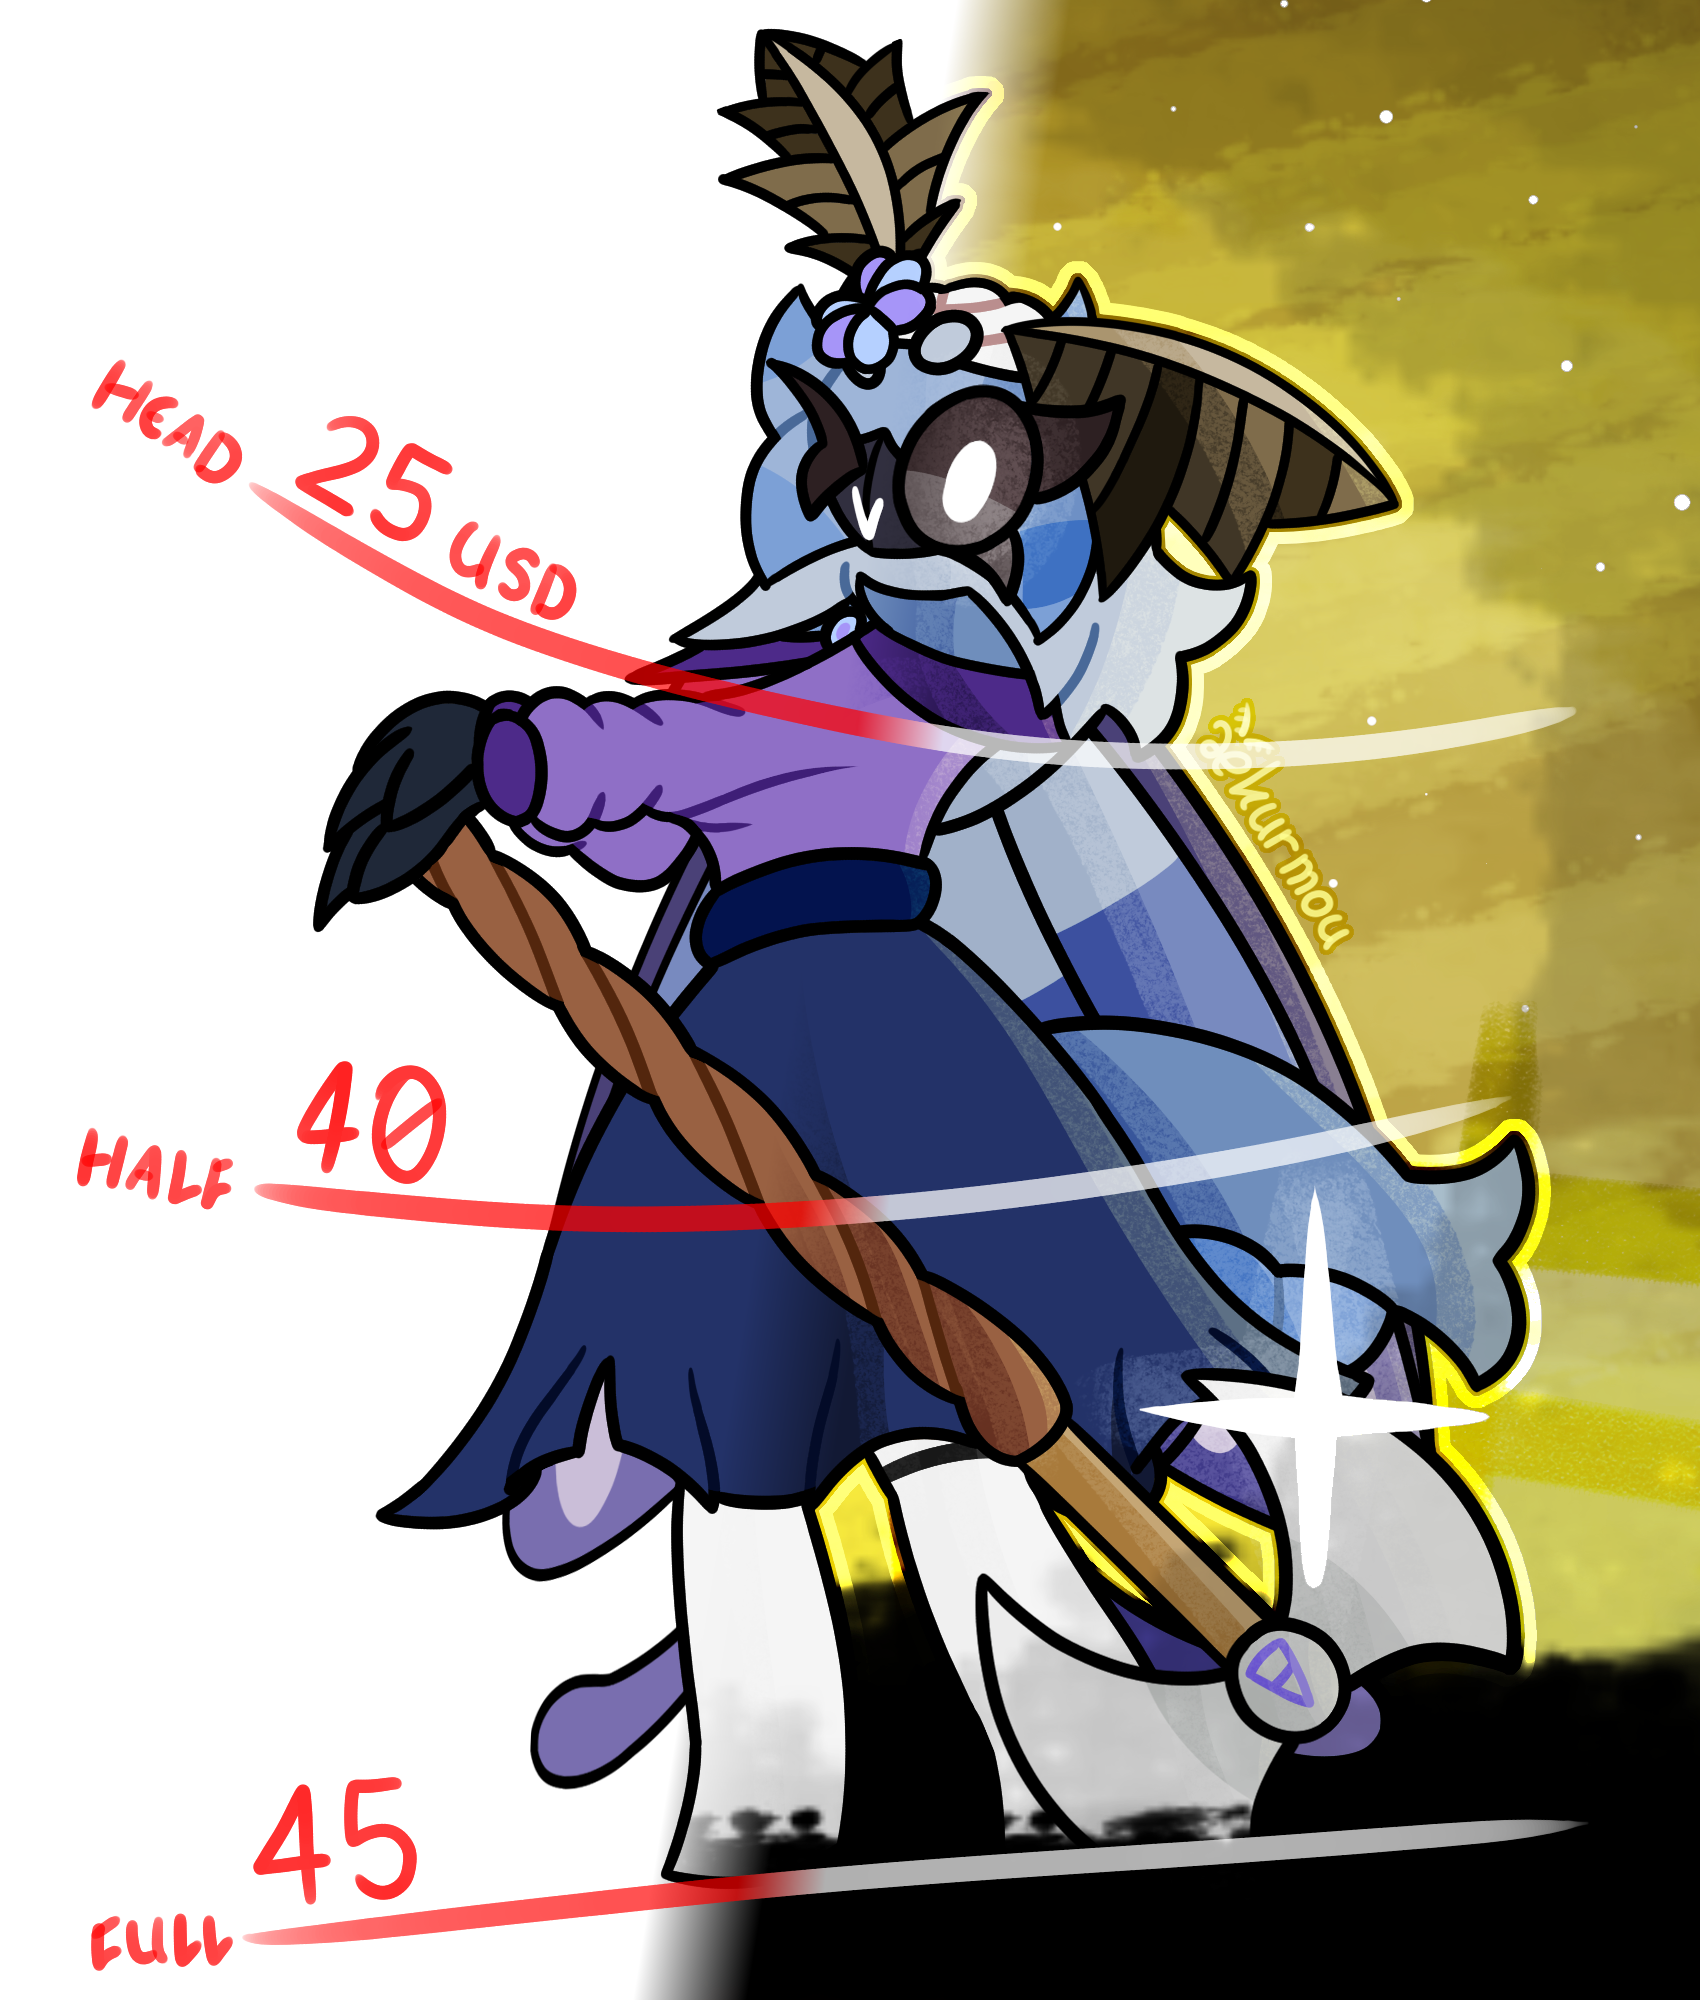
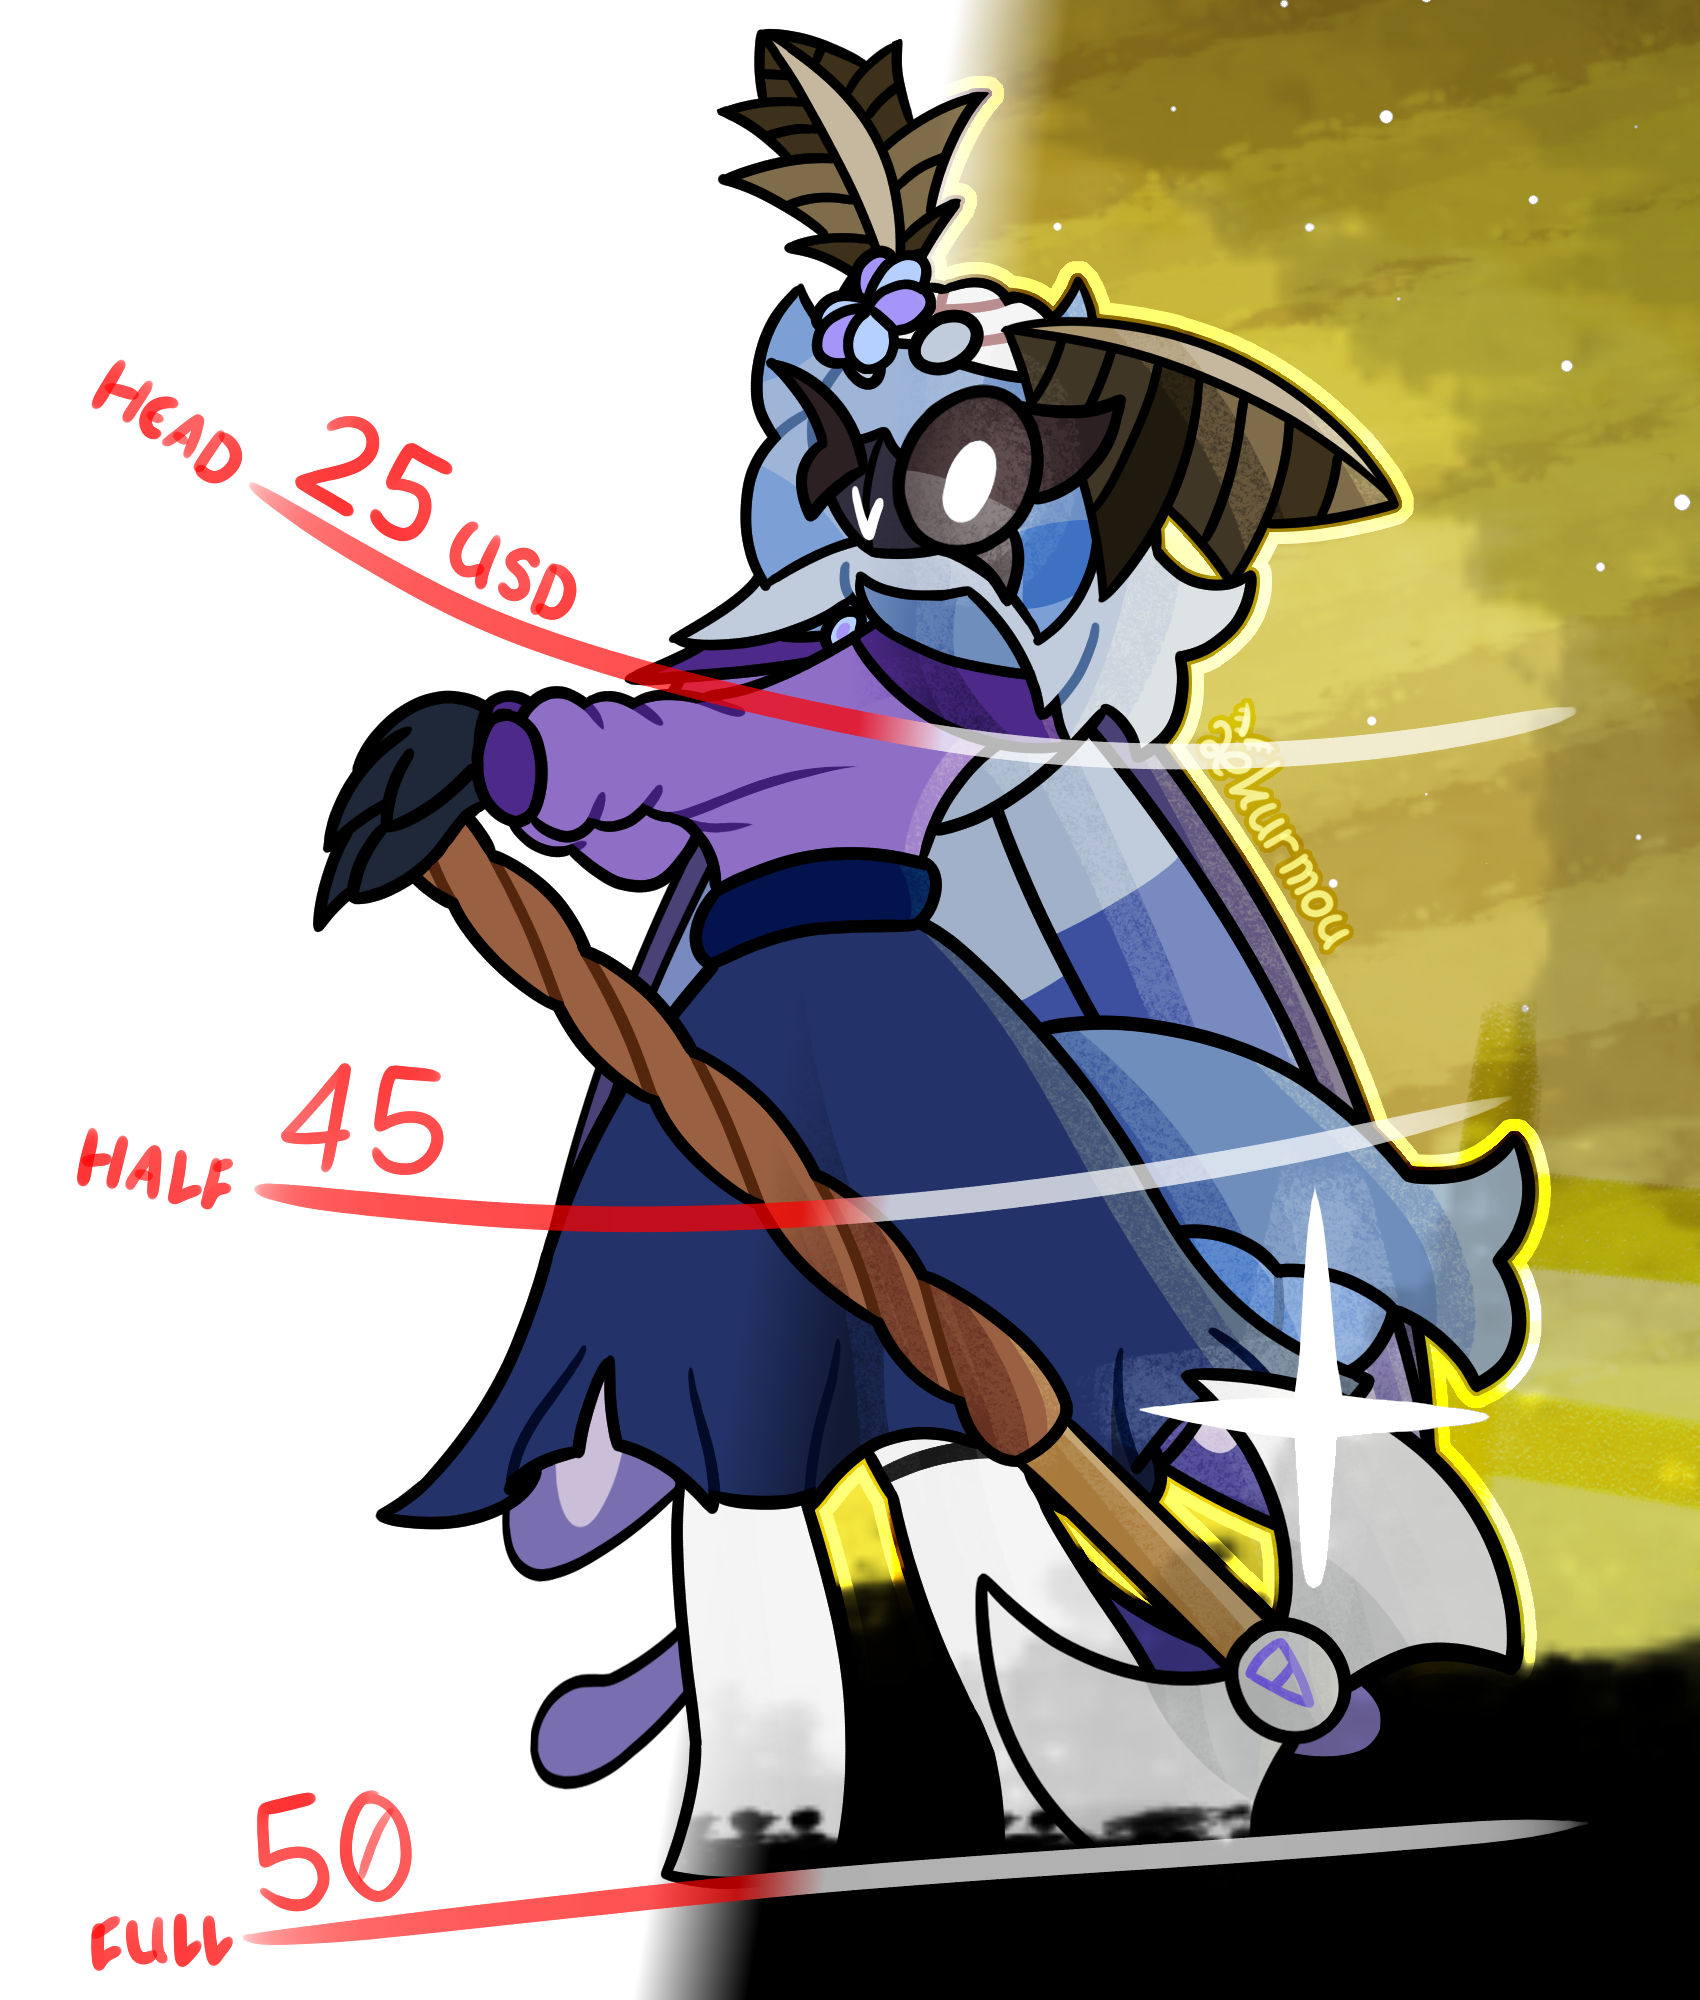
Add files via upload

Changed region(s): [[0.1247, 0.868, 0.2494, 0.961], [0.1559, 0.527, 0.2806, 0.589]]

diff --git a/artcomm/index.html b/artcomm/index.html
@@ -20,7 +20,7 @@
 			<a href="index.html">art comm</a>
 		</nav>
 		<main>
-			<h1>Art Commission <span style="font-family: serif">&kappa;</span></h1>			
+			<h1>Art Commission <span style="font-family: serif">&lambda;</span></h1>			
 			<img src="commshee_visual.png" width="600px">
 			<br>
 			<table class="prices">
@@ -32,11 +32,11 @@
 					</tr>
 					<tr>
 						<th>HALF</th>
-						<td id="price_half">40</td>
+						<td id="price_half">45</td>
 					</tr>
 					<tr>
 						<th>FULL</th>
-						<td id="price_full">45</td>
+						<td id="price_full">50</td>
 					</tr>
 				</tbody>
 			</table>
@@ -60,8 +60,8 @@
 						<td id="modifier_extrachar">+40%</td>
 					</tr>
 					<tr>
-						<td>Pride Month Discount<sup>[4]</sup></td>
-						<td id="modifier_bonusdiscount">-10%</td>
+						<td>Reference Angle<sup>[4]</sup></td>
+						<td id="modifier_refang">+25%</td>
 					</tr>
 				</tbody>
 			</table>
@@ -69,7 +69,7 @@
 				<li><sup>[1]</sup>Simple backgrounds (e.g. gradients and shapes) do not count towards the modifier. However, it is considered complex and counts towards the modifier if it features a significant amount of objects such as vegetation, buildings, and room objects, and the subject doesn't entirely encapsulate the canvas.</li>
 				<li><sup>[2]</sup>A pose is considered 'complex' if a subject's head is laterally further from or closer to the camera than pelvis, or a subject's limbs are significantly laterally distant from the body.</li>
 				<li><sup>[3]</sup>Maximum limit of 3 characters. My own characters count as a half, but they still count as a whole for the limit.</li>
-				<li><sup>[4]</sup>Eligible if the work primarily showcases the character's pride. <b>Complex backgrounds do not count</b>.</li>
+				<li><sup>[4]</sup>Reference sheets always use FULL base price. This modifier applies for each extra halfbody/fullbody angle of the character.</li>
 			</ul>
 			<br><br>
 			<div id="price_calc" style="display: none;" class="box"><!--PRICE CALC-->
@@ -91,10 +91,10 @@
 					<input type="checkbox" id="price_calc_in_modifier_nonbug" onchange="priceCalculatorRun()">-->
 					<br><label for="price_calc_in_modifier_complexpose">Complex Pose</label>
 					<input type="checkbox" id="price_calc_in_modifier_complexpose" onchange="priceCalculatorRun()">
-					<br><label for="price_calc_in_modifier_bonusdiscount">Pride Month Discount</label>
-					<input type="checkbox" id="price_calc_in_modifier_bonusdiscount" onchange="priceCalculatorRun()">
 					<br><label for="price_calc_in_modifier_extrachar">Character Count:</label>
 					<input type="number" id="price_calc_in_modifier_extrachar" min="1" max="3" step="0.5" value="1" onchange="priceCalculatorRun()">
+					<br><label for="price_calc_in_modifier_refang">Reference Angles</label>
+					<input type="number" id="price_calc_in_modifier_refang" min="1" max="3" step="1" value="1" onchange="priceCalculatorRun()">
 				</p>
 				<p><div id="price_calc_out_price" class="box" style="font-size: 24pt">?</div></p>
 			</div>
@@ -177,11 +177,14 @@
 					const price_calc_in_modifier_complexpose = document.getElementById('price_calc_in_modifier_complexpose')
 					if (price_calc_in_modifier_complexpose.checked) modifierInc += 0.01 * parseFloat(document.getElementById('modifier_complexpose').innerHTML)
 					
-					const price_calc_in_modifier_bonusdiscount = document.getElementById('price_calc_in_modifier_bonusdiscount')
-					if (price_calc_in_modifier_bonusdiscount.checked) modifierInc += 0.01 * parseFloat(document.getElementById('modifier_bonusdiscount').innerHTML)
+					//const price_calc_in_modifier_bonusdiscount = document.getElementById('price_calc_in_modifier_bonusdiscount')
+					//if (price_calc_in_modifier_bonusdiscount.checked) modifierInc += 0.01 * parseFloat(document.getElementById('modifier_bonusdiscount').innerHTML)
 					
 					const price_calc_in_modifier_extrachar = document.getElementById('price_calc_in_modifier_extrachar')
 					modifierInc += 0.01 * parseFloat(document.getElementById('modifier_extrachar').innerHTML) * (price_calc_in_modifier_extrachar.value - 1)
+					
+					const price_calc_in_modifier_refang = document.getElementById('price_calc_in_modifier_refang')
+					modifierInc += 0.01 * parseFloat(document.getElementById('modifier_refang').innerHTML) * (price_calc_in_modifier_refang.value - 1)
 					
 					price *= 1.0 + modifierInc;
 					